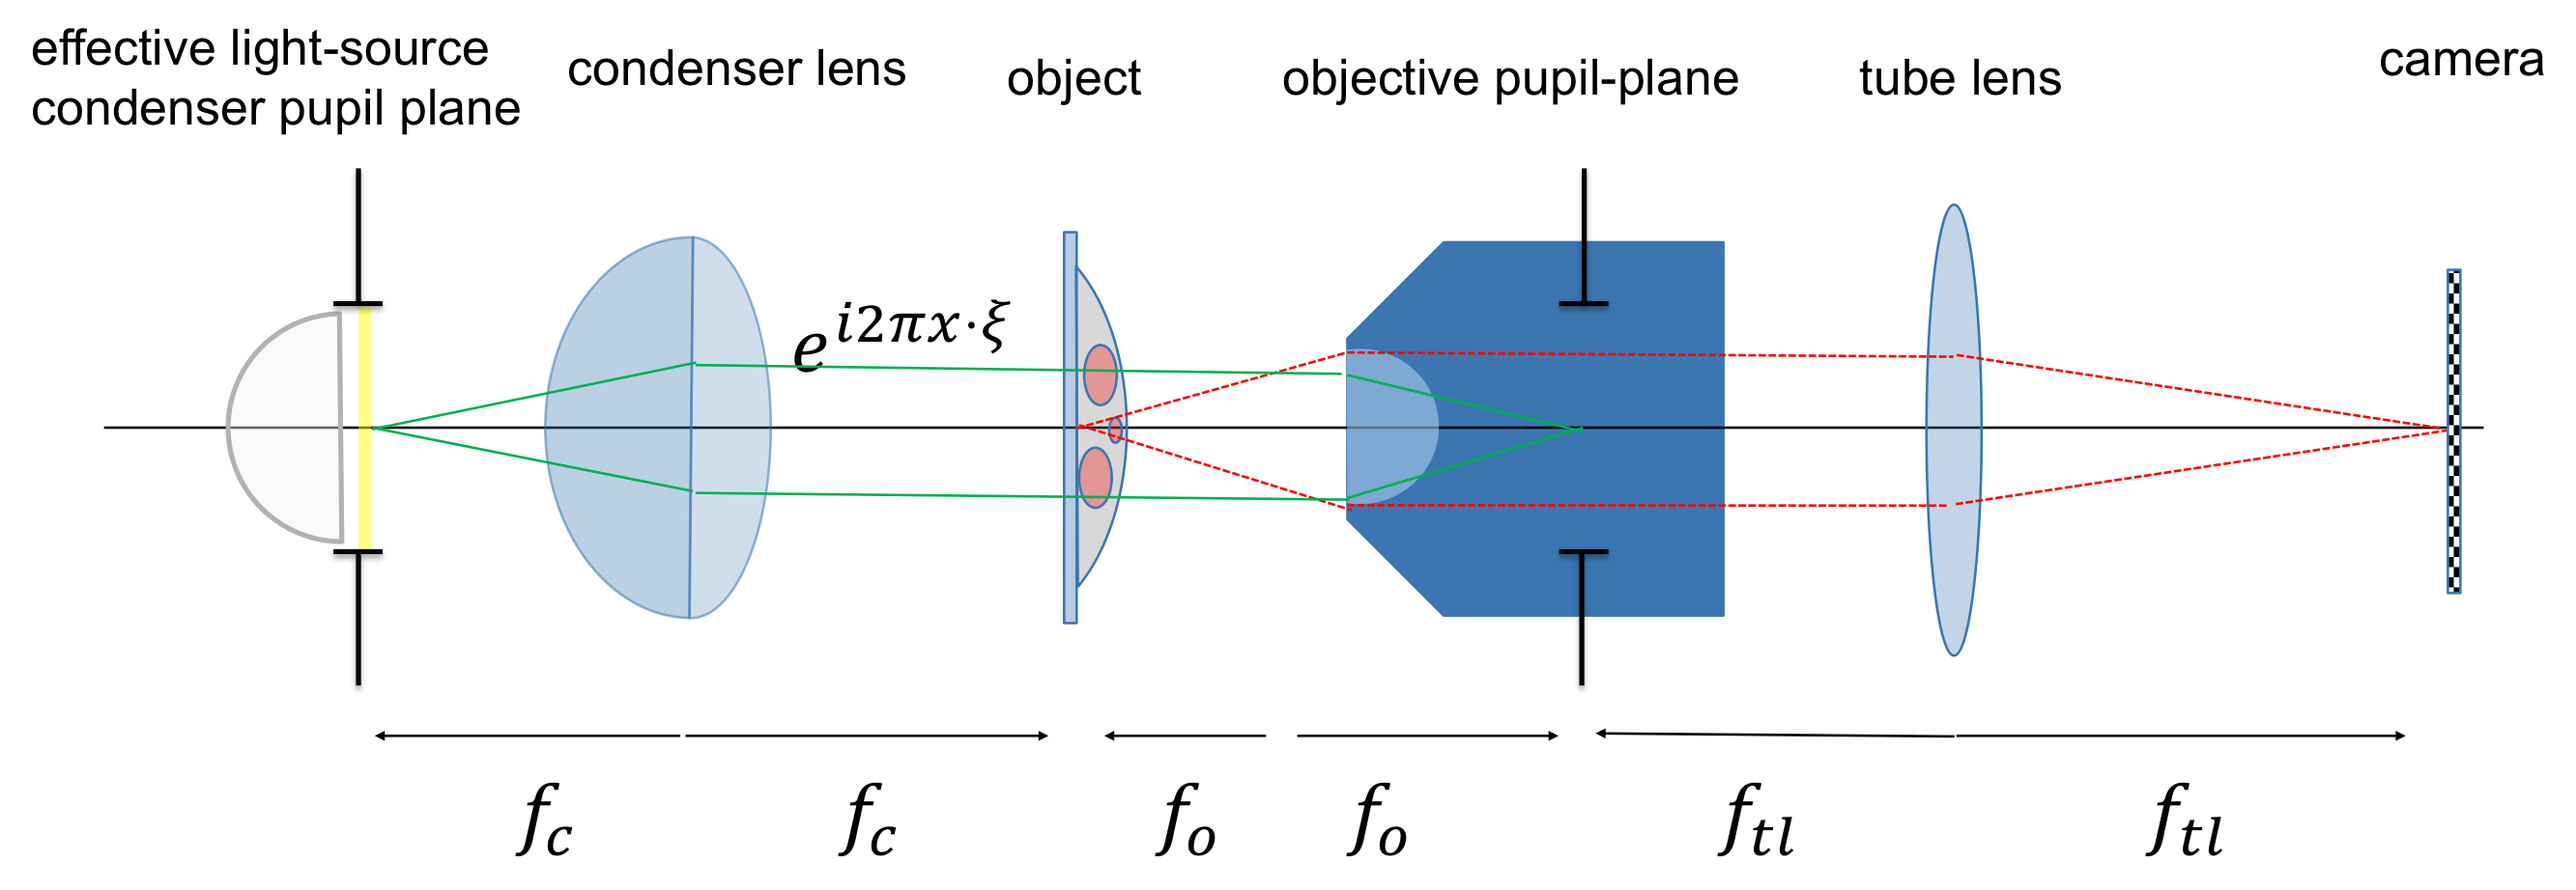
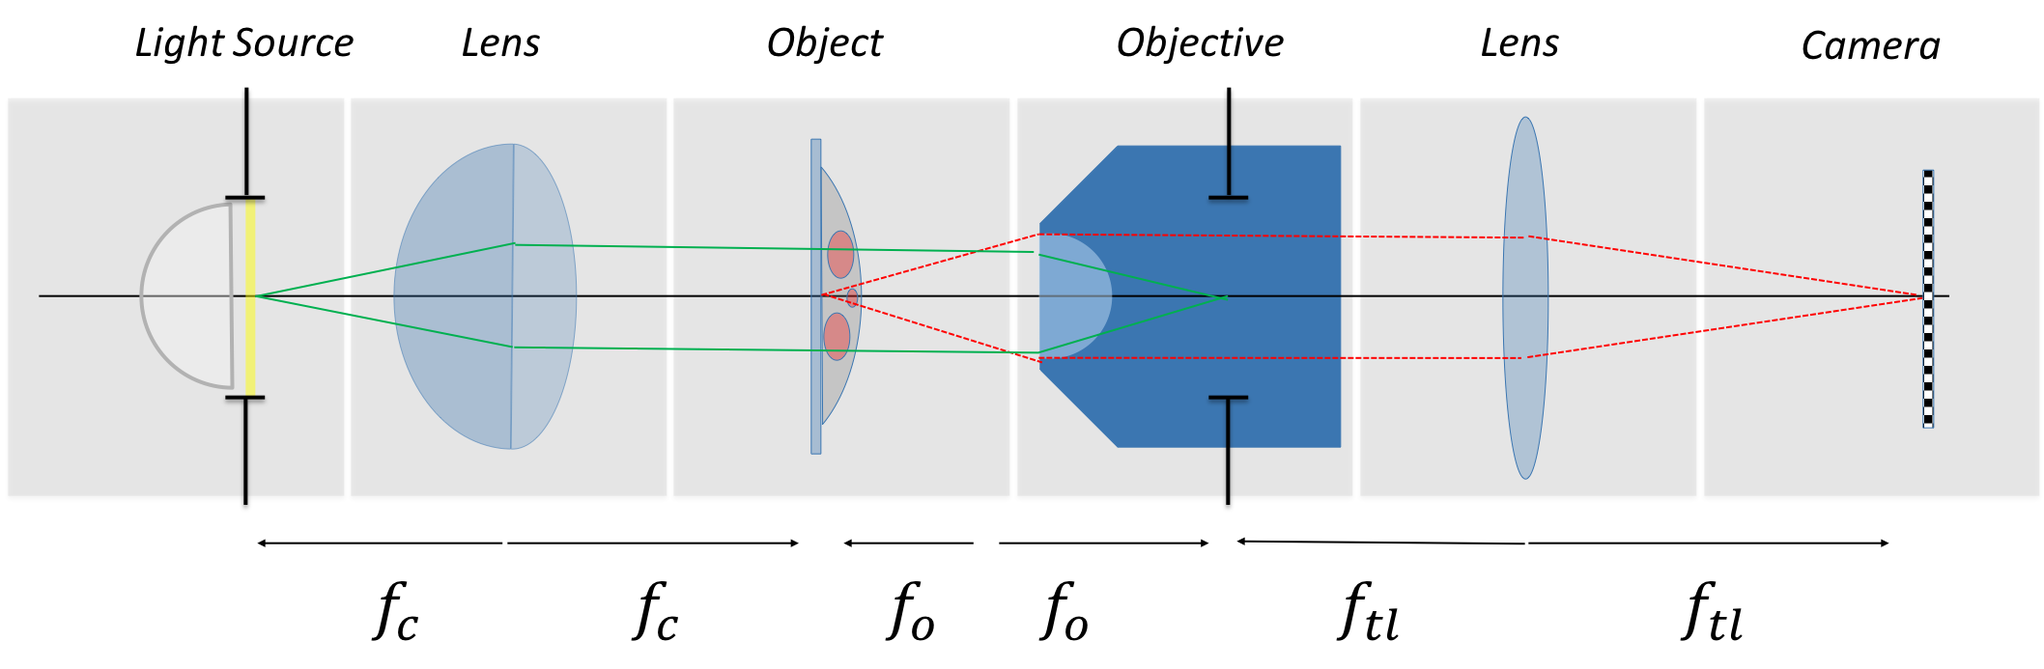
Updated the main README

diff --git a/Readme.md b/Readme.md
@@ -1,31 +1,27 @@
-# UC2
-<p align="center">
-<img src="./IMAGES/UC2_Logo.png" width="200">
+<p align="left">
+<img src="./IMAGES/UC2_logo_text.png" width="400">
 </p>
 
-This is the online repository for the open-source hardware project ''UC2'' [YouSeeToo].
 
-[Quickstart 3D printing files](./CAD/ASSEMBLY_CUBE_Base_v2) | [Design-Files](./CAD/ASSEMBLY_CUBE_Base_v2/STL) | [Project Page](http://useetoo.org)| [UC2 White-Paper](./DOCUMENTS/UC2_Whitepaper.pdf)
 
-**NEW:** We have assembly tutorials with images for each module in the [CAD](./CAD)-folder! :-)
+## UC2 - Open and Modular Optical Toolbox
+
+---
+
+
+**New**: The COSI conference paper is out [on OSA](https://www.osapublishing.org/abstract.cfm?uri=ISA-2019-ITh3B.5), A preprint will soon appear on BioRxiv.
+
+**New:** We have updated many modules and their pictured tutorials with in [CAD](./CAD)
+
+**New:** We have a new comprehenssive 2-day workshop documented in [WORKSHOP](./WORKSHOP)
+
+---
 
 Making **open-science** great again!
 
-# Table of Content
+**UC2** is a general-purpose modular framework for making interactive (electro)-optical projects. Most optical systems such as microscopes follow a simple **4f** or Fourier-optical principle, where lenses are aligned such that focal-planes of adjacent components overlap to limit the amount of aberrations as much as possible and to be able to predict the system-behavior easily using Fourier-transforms.
 
-[Introduction](#introdution)  
-[List of available Setups](#list-of-available-setups)  
-[Bill of Material](#bill-of-material)  
-[Getting Started](#getting-started)  
-[Module Developer Kit (NEW)](#modul-developer-kit)  
-
-
-
-# Introduction
-
-**UC2** is a general-purpose modular framework for making interactive (electro)-optical projects. Most optical systems out there follow a simple so called **4f** setup, where optical lenses are aligned such that focal-planes of adjacent components overlap to limit the amount of aberrations as much as possible and to be able to predict the system-behavior easily using e.g. Fourier-imaging theory.
-
-Therefore the simplest microscope could be realized using only 2 lenses. Their angular magnification is characterized by the ratio of the objective f<sub>obj</sub> and tube lens f<sub>tube</sub>
+Following this idea, a microscope as shown in **Fig 1** creates an angular magnification depending on the focal lenghts of the objective f<sub>obj</sub> and tube lens f<sub>tube</sub>:
 
 ***M<sub>4f</sub>=  f<sub>obj</sub>/f<sub>tube</sub>***
 
@@ -33,127 +29,132 @@ Therefore the simplest microscope could be realized using only 2 lenses. Their a
 <img src="./IMAGES/UC2_simplemicroscope.png" width="800">
 </p>
 
+**Fig 1:** Fourier-Optical Setup; Koehler Illumination where the illumination plane is conjugate to the objective pupil plane (BFP)
 
-**UC2** not only modularizes the optical components in a setup, but allows to make each individual block, represented by a specific function (i.e. lens, mirror, xy-stage, etc.), ''smart''. Therefore a small microcontroller (i.e. Arduino Nano) connects to a **I²** BUS, making it possible to communicate with a Master-device (i.e. Raspberry Pi). Illumination sources like LED-Matrices, Motors, etc. can be controlled, sensors like light- or humidity sensors can be readout.
 
-It aims to bring 21st-century concepts of clean abstraction and modularity to hardware design.
+Besides optical components, the **UC2** building blocks can also host electronics such as **Arduinos** or **ESP32s** to create ''smart'' functions like LED array illumination, Z-stages, et cetera. Communication can be granted through the wired **I²** BUS or the wireless **MQTT** protocol.
 
-**UC2** is in active development. It is meant to be used not only by beginners, but also for professionals dealing with optical setups on a daily basis. Its click-and-go concept simplifies the process of aligning and adjusting the parts giving new tools acting as rapid-prototyping devices. It also comes with a series of open-source workshops (in the future) explaining the theory behind optics.
+**UC2** is in active development. It is meant to be used not only by beginners, but also for professionals dealing with optical setups on a daily basis. Its magnetic click-and-go concept simplifies the process of aligning and adjusting the parts giving new tools acting as rapid-prototyping devices. It also comes with a series of open-source workshops (in the future) explaining the theory behind optics.
 
-People are also encouraged to share their work. We are curious what the community is doing with our little blocks. All necessary details to modify the design of the blocks are given in the sub-folders of the specific folders.
+People are also encouraged to share their work. We are curious what the community is doing with our little blocks. All necessary details to modify the design of the blocks are given in the sub-folders of the specific folders. Share your ideas through our [@openUC2-Twitter account](https://twitter.com/openuc2).
 
 A full cube + base-plate looks like that:
 <p align="center">
 <img src="./IMAGES/UC2_Explosion.png" width="350">
 </p>
 
+**Fig 2:** Assembly of the cube + base-plate; A set of ferro-magnetic screws hold the lid and base-cube in place and connect to 4 5mm NeoDym ballmagnets sitting in the base-plate; Optical components find their place inside the cube.
 
 
 
-# List of available Setups
+**UC2** can be used with cameras from the Raspberry Pi world, but creates even more beautiful images with your cellphone. Thus making cutting edge-research not only affordable, but also available. 
+A more in-detail project description can be found in the [UC2 White-Paper](./DOCUMENTS/UC2_Whitepaper.pdf)
 
-Our goal is to make as many setups as possible available, so that people can play with it. Basically everything's possible, you just need to think in blocks! Please go to the [CAD](./CAD/Readme.md)-folder to have a glimpse of what's possible
 
+## UC2 as an "open-standard"
+
+The idea is to use **UC2** as an open-standard or bridge to external hardware components and devices such as cameras or lenses. An already existing or customized adapter/insert creates the link to the **UC2** eco-system. A variety of ready-to-use adapters can be found in the folder [CAD](./CAD). 
+
+<p align="center">
+<img src="./IMAGES/UC2_openstandard.png" width="550">
+</p>
+
+**FIG 3:** The structure of any UC2 assembly follows the green lines; A basic cube can hold an insert thus adapting to different components (i.e. lenses, etc.); A number of assembled cube-modules can form a complex optical system here called application
+
+
+A more in-detail description of the **MDK** (**M**odule **D**eveloper **K**it) which explains how ***your idea*** can be adapted to the module system can be found in the [MDK](./MDK)-folder. 
+
+If you have a new part, we are eager to see it. Please feel free to share it on available resources like Twitter, Thingiverse, Github or any other platform of choice!
+
+
+
+## List of available Setups
+
+Our goal is to make as many setups as possible available, so that people can play with it. Basically everything's possible, you just need to think in blocks! Please go to the [CAD](./CAD/Readme.md)-folder to have the updated version of the list below.
+
+### Compilations
+
+* [**THE**Box: Concept of a ready-to-use box containing multiple setups at once](./TheBOX/)
+* [**SIMPLE**Box: Optical setups for elementary- to high-schools ](./TheBOX/SimpleBOX)
+* [**FULL**Box: Optical setups for high-schools to universities (contains electronics)](./TheBOX/SimpleBOX)
+
+
+### SIMPLE Setups 
+* [*SIMPLE* - Projector](./CAD/APP_SIMPLE-Projector)
+* [*SIMPLE* - Telescope](./CAD/APP_SIMPLE-Telescope)
+* [*SIMPLE* - Smartphone Microscope](./CAD/APP_SMARTPHONE_MICROSCOPE)
+
+### BASIC Setups
 * [In-Incubator Microscope with X/Y/Z-control and adaptive illumination](./CAD/APP_Incubator_Microscope)
 * [Light-Sheet Microscope](./CAD/APP_LIGHTSHEET_Workshop)
-* [Smartphone Microscope](./CAD/APP_SMARTPHONE_MICROSCOPE)
 * [In-Line Holographical Microscope](./CAD/APP_INLINE_HOLOGRAM)
 * [Telescope](./CAD/APP_SIMPLE-Telescope)
 * [Abbe Experiment (Diffraction-effect of light)](./CAD/APP_Abbe_Setup)
 * [Michelson interferometer (Interference-effect of light)](./CAD/APP_Michelson_Interferometer)
+* [Mach Zehnder interferometer (Interference-effect of light)](./CAD/APP_Mach-Zehnder_Interferometer)
+* [Double Slit Experiment (Interference-effect of light)](./CAD/APP_Double-slit_Experiment)
+
+### COMPLEX Setups 
+* [*openSIM* - Structured Illumination Microscopy (2-Beam Interference Super-Resolution)](./CAD/APP_openSIM)
+* [*openISM* - Image Scanning Microscopy (Confocal or Super-confocal imaging)](./CAD/APP_openISM)
+* [*openKOEHLER* - Phase Contrast enhancement using an adaptive Koehler illumination](./CAD/APP_openKOEHLER)
+
 
 <p align="center">
-<img src="./IMAGES/UC2_Holography.png" width="600">
+<img src="./IMAGES/UC2_Holography.png" width="300">
 </p>
+
+## Repositories
+
+Currently, **UC2** consists of the following repositories:
+
+ - [UC2 Hardware Repo (core)](https://github.com/bionanoimaging/UC2-GIT/) (this repository)
+ - [UC2 Software Control Repo](https://github.com/bionanoimaging/UC2-Software-GIT)
+ - [UC2+ImJoy Image Processing Repo](https://github.com/bionanoimaging/UC2-ImJoy-Plugins)
 
 ## SOFTWARE
 
 There is a new Software repository dedicated for the UC2 stuff. It can be found [here](https://github.com/bionanoimaging/UC2-Software-GIT).
+It supports you with controler APPS for the Raspberry Pi and Android Cellphones.
 
-## Bill of Material
+## Quickstart 
 
-All the parts are from typical distributors like Amazon, Alibaba, Ebay, etc. to provide an easy-to-build solution not relying on special components. The project is heavily benefiting from the wide variety and availability of components brought up by the open-source community.
+### Print your first UC2 cube
 
+All the CAD-Parts can be printed using an off-the-shelf 3D printer (or 3D printing service). Currently we use majorly PLA and ABS coming from an ULTIMAKER 2+/3 (Netherlands), Be3D DeeGreen (Czech Republic) and Prusa i3 Mk3 (Czech Republic).
 
-# Getting Started
+Each Application (e.g. Incubator Microscope) has a specific sub-folder in the [CAD](./CAD)-section where all necessary ```.stl``` files are lying ready for printing.
 
-## Module Developer Kit
-To allow easy adaption to the UC2 system we will provide a so called module developer kit ([MDK](./MDK)) also known from the Google Ara system. Here we define the industrial design guidelines so that any inlet can be designed to make it work with our UC2 system.
-It can be observed in the [MDK](./MDK)-folder.
-
-If you have a new part, we are eager to see it. Please feel free to share it on available resources like Twitter, Thingiverse, Github or any other platform of choice! :-)
-
-
-## CAD Design Tutorial
-We provide a brief tutorial on how to design an insert which adapts any part to the UC2 system. Please find it [here](./CAD/ASSEMBLY_CUBE_Base_v2/#tutorial-on-how-to-design-an-insert-in-inventor) on how to design an insert in Inventor).
-
-# Brief overview of documented setups
-
-## Base Cube
-The basic cube can directly be printed using the [STL](./CAD/ASSEMBLY_CUBE_Base_v2/STL)-files or imported in Autodesk's Inventor/Fusion360. Therefor we wrote a little tutorial which can be found [here](./CAD/ASSEMBLY_CUBE_Base_v2).
 
 A quick printing tutorial can be found here:
 [![UC2 YouSeeToo - How to print the base-cube?](./IMAGES/UC2_TutorialPrintYoutube.png)](https://www.youtube.com/watch?v=JswW8BexnC4&feature=youtu.be)
 
+**Attention:** Don't just print everything from the STL folder, as currently it contains some parts that must be printed multiple times, and other parts that are redundant.
+
+**Hint:** A detailed description of how-to-print the **UC2**-parts with a ***Prusa i3*** can be found in the folder [Printer](./PRINTER).
 
 
-## Inline Holographical Microscope (lensless)
-We started a Digital In-Line Holographical Microscope Workshop together with the [Lichtwerkstatt](https://lichtwerkstatt-jena.de/) in November 2018. You can find the guide with an in-detail explanation [here](./WORKSHOP/INLINE-HOLOGRAMM) with a [German](./WORKSHOP/INLINE-HOLOGRAMM/DOCUMENTS/WORKSHOP.pdf) PDF and a translated [English Version](./WORKSHOP/INLINE-HOLOGRAMM/DOCUMENTS/WORKSHOP_english.pdf).
+### Modify the UC2 design-files
 
-This should give a first-start blueprint to develop any optical design idea into our system. We also provide how-to's to create [customized parts](./DOCUMENTS/TUTORIALS/TUT_Basic_Design_Cube_Inlet_Function_v0.pdf) to use it with UC2. You can find them [here](./DOCUMENTS/TUTORIALS/).
+The basic cube can directly be printed using the [STL](./CAD/ASSEMBLY_CUBE_Base_v2/STL)-files or imported in Autodesk's Inventor/Fusion360. Therefor we wrote a little tutorial which can be found [here](./CAD/ASSEMBLY_CUBE_Base_v2).
+A video is coming soon! 
 
-Assembly-guides can be found [here](./DOCUMENTS/TUTORIALS_SETUP).
-
-## Light-sheet Workshop
-Have a look at the documentation of the workshop we did at the day of light [here](./WORKSHOP/LIGHTSHEET).
-
-## Telescope
-We also provide a simple setup relying on not more than 2 lenses to build a telescope. The documentation can be found [here](./CAD/APP_SIMPLE-Telescope).
+A quick tutorial where you find a guide on how an inlet could look like can be found here: [Guide to design a customized function](./DOCUMENTS/TUTORIALS/TUT_Basic_Design_Cube_Inlet_Function_v0.pdf).
 
 
-# 3D Printing
+### Workshops
 
-All the CAD-Parts can be printed using an off-the-shelf 3D printer (or 3D printing service). Currently we use majorly PLA and ABS coming from an ULTIMAKER 2+/3 (Netherlands), Be3D DeeGreen (Czech Republic) and Prusa i3 Mk3.
+The documented workshops can be found in the folder [WORKSHOP](./WORKSHOP) and give a step-by-step introduction into the system. We have done multiple workshops together with the HHMI Janelia Farm, UiO Oslo, Lichtwerkstatt Jena and Leibniz IPHT Jena e.V. If you're interested we are happy to host one near you. 
 
-Each Application (e.g. Incubator Microscope) has a specific sub-folder in the [CAD](./CAD)-section where all necessary ```.stl``` files are lying ready for printing.
 
-Don't just print everything from the STL folder, as currently it contains some parts that must be printed multiple times, and other parts that are redundant.
+### Bill of Material
 
-## Printing Tutorial
-A detailed description of how-to-print the ```UC2```-parts with a ***Prusa i3*** can be found in the folder [Printer](./PRINTER).
+All the parts are from typical distributors like Amazon, Alibaba, Ebay, etc. to provide an easy-to-build solution not relying on special components. The project is heavily benefiting from the wide variety and availability of components brought up by the open-source community.
 
-# Structure of Repository
------ THIS SECTION NEEDS REVISION -------
+Recent lists can be found [here](https://github.com/bionanoimaging/UC2-GIT/tree/master/DOCUMENTS). It includes shops for the low-cost components we use in our setups as well as the List of all parts for the Boxes. 
 
-**HARDWARE**
+The [GoogleDrive Spreadsheet](https://docs.google.com/spreadsheets/d/1U1MndGKRCs0LKE5W8VGreCv9DJbQVQv7O6kgLlB6ZmE/edit?usp=sharing) is an always up-to-date version of the list. 
 
-	* ARDUINO
-		* Programming files for the I2C Bus
-		* I2C Documentation
-	* CAD
-		* LIGHTSHEET
-		* Abbe Experiment
-		* In-Incubator Microscope
-		* etc. (all come with:)
-			* STL
-			* INVENTOR
-	* DATASHEETS
-	* DOCUMENTS
-		*  Useful Documents for building the projects
-		*  Bill of Materials
-	* Electronics
-		* Schematics
-		* Tips and Tricks
-	* RASPBERRY-Pi
-		* Programming Files for The Pi
-		* Python Helper Files
-	* WORKSHOPS
-		* A growing list of available resource files for workshops (meant for hackathons, universities, schools, etc.)
-		* Manuals
-		* Projects
-	* LICENSE
-		* Agreement
-		* PLEASE READ!
 
 ## Get Involved!
 ----- THIS SECTION NEEDS REVISION -------
@@ -168,20 +169,11 @@ This project is open so that anyone can get involved. Ways you can contribute in
 * Fork it, and make pull requests - again, documentation improvements are every bit as useful as revised OpenSCAD files.
 * Things in need of attention are currently described in issues so have a look there if you'd like to work on something but aren't sure what.
 
+We provide a brief tutorial on how to design an insert which adapts any part to the UC2 system. Please find it [here](./CAD/ASSEMBLY_CUBE_Base_v2/#tutorial-on-how-to-design-an-insert-in-inventor) on how to design an insert in Inventor).
+
 
 REMARK: All files have been designed using Autodesk Inventor 2019 (EDUCATION)
 
-### Start Designing individual parts
------ THIS SECTION NEEDS REVISION -------
-
-We compiled a quick tutorial where you find a guide on how an inlet could look like. The base-cubes can hold any function you want. The fastes way is to rely on Thorlabs parts, but basically any other part can fit in it too. Have a look here:
-[Guide to design a customized function](./DOCUMENTS/TUTORIALS/TUT_Basic_Design_Cube_Inlet_Function_v0.pdf)
-
-
-## Raspberry Pi Quick-Start
------ THIS SECTION NEEDS REVISION -------
-
-Please find a manual [here](./DOCUMENTS/RaspberryPi/Raspberry_Pi_v0.docx) and [here](./RASPBERRY-PI).
 
 ## Kits, License and Collaboration
 ----- THIS SECTION NEEDS REVISION -------
@@ -194,9 +186,15 @@ Please find the type of licenses [here](./License.md)
 
 
 ## Showcase
-This is one of the very first prototypes we had in 2017. It has evovled a lot.
-![UC2 Holography](./IMAGES/UC2_firststep.JPG)
+
+This is the mess you can end up during Fourier-optics session using UC2 components. Pure-fun! :-)
+
+<p align="center">
+<img src="./IMAGES/UC2_fourierworkshop.jpg" width="500">
+</p>
+
 
 ## Credits
 If you find this project useful, please like this repository and cite the webpage! :-)
-B. Diederich, R. Heintzmann, X. Uwurukundo, H. Wang, B. Marsikova, R. Lachmann, Lichtwerkstatt, IPHT Jena
+
+*B. Diederich, R. Lachmann, B. Marsikova, E. Bingöl, S. Carlstedt, X. Uwurukundo, H. Wang, R. Heintzmann, Lichtwerkstatt, IPHT Jena, HHMI Janelia Farm, UiO Oslo, NorMic  and many more*

diff --git a/WORKSHOP/OSLO/Experiment_4.md b/WORKSHOP/OSLO/Experiment_4.md
@@ -11,3 +11,10 @@ The basic description about the device and how to align it can be found [here](h
 3. Load the images/videos to Fiji and create a Z-project 
 
 
+## RESULT
+
+Larvae of fruitfly using a 4x lens for detection and illumination.
+
+<p align="center">
+<img src="./IMAGES/Larve_Lightsheet.png" width="500">
+</p>
